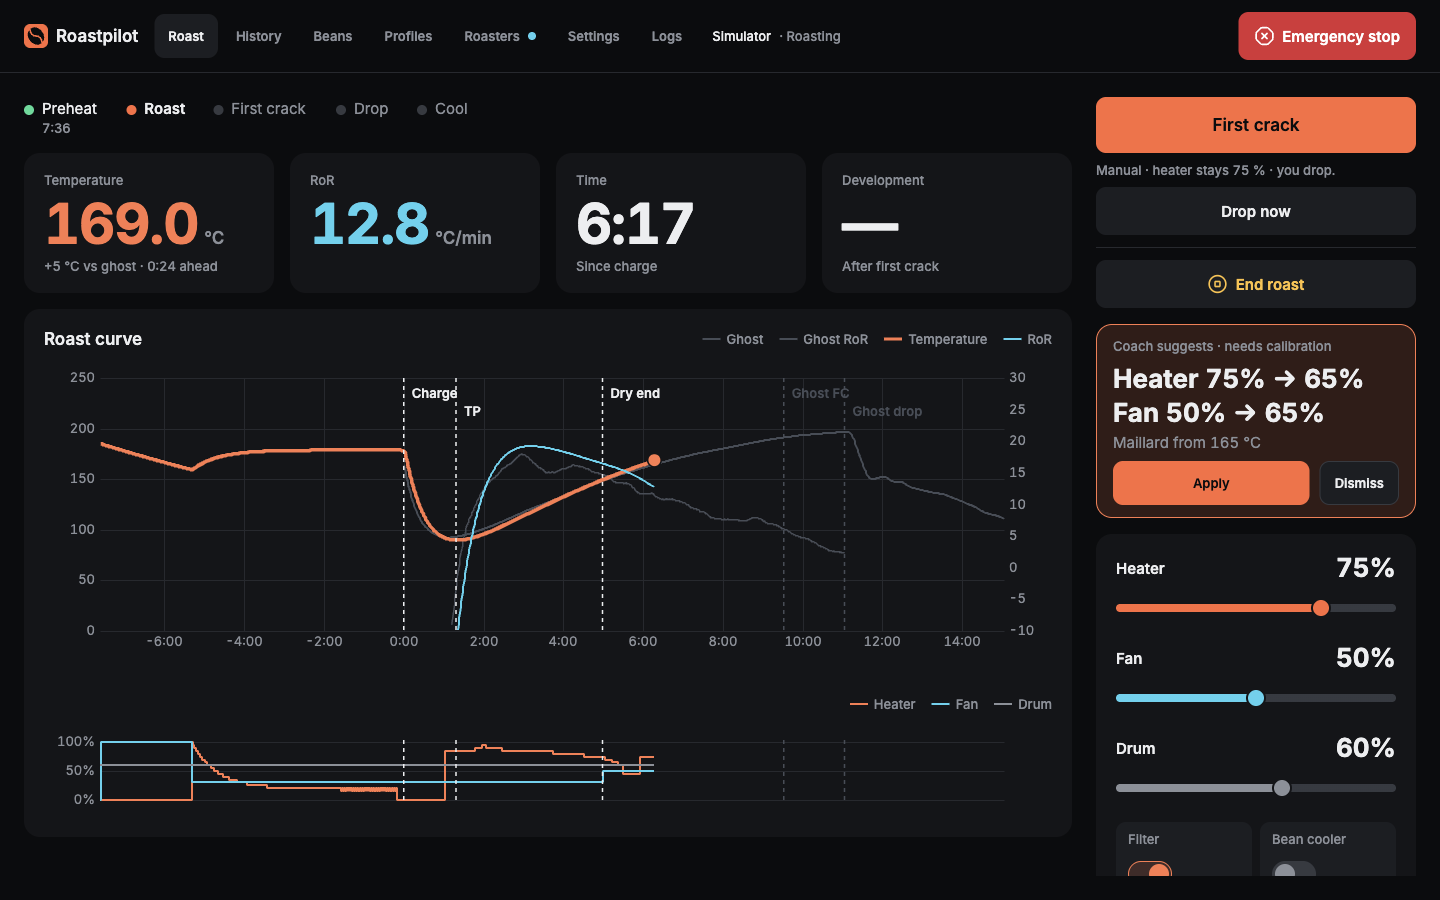
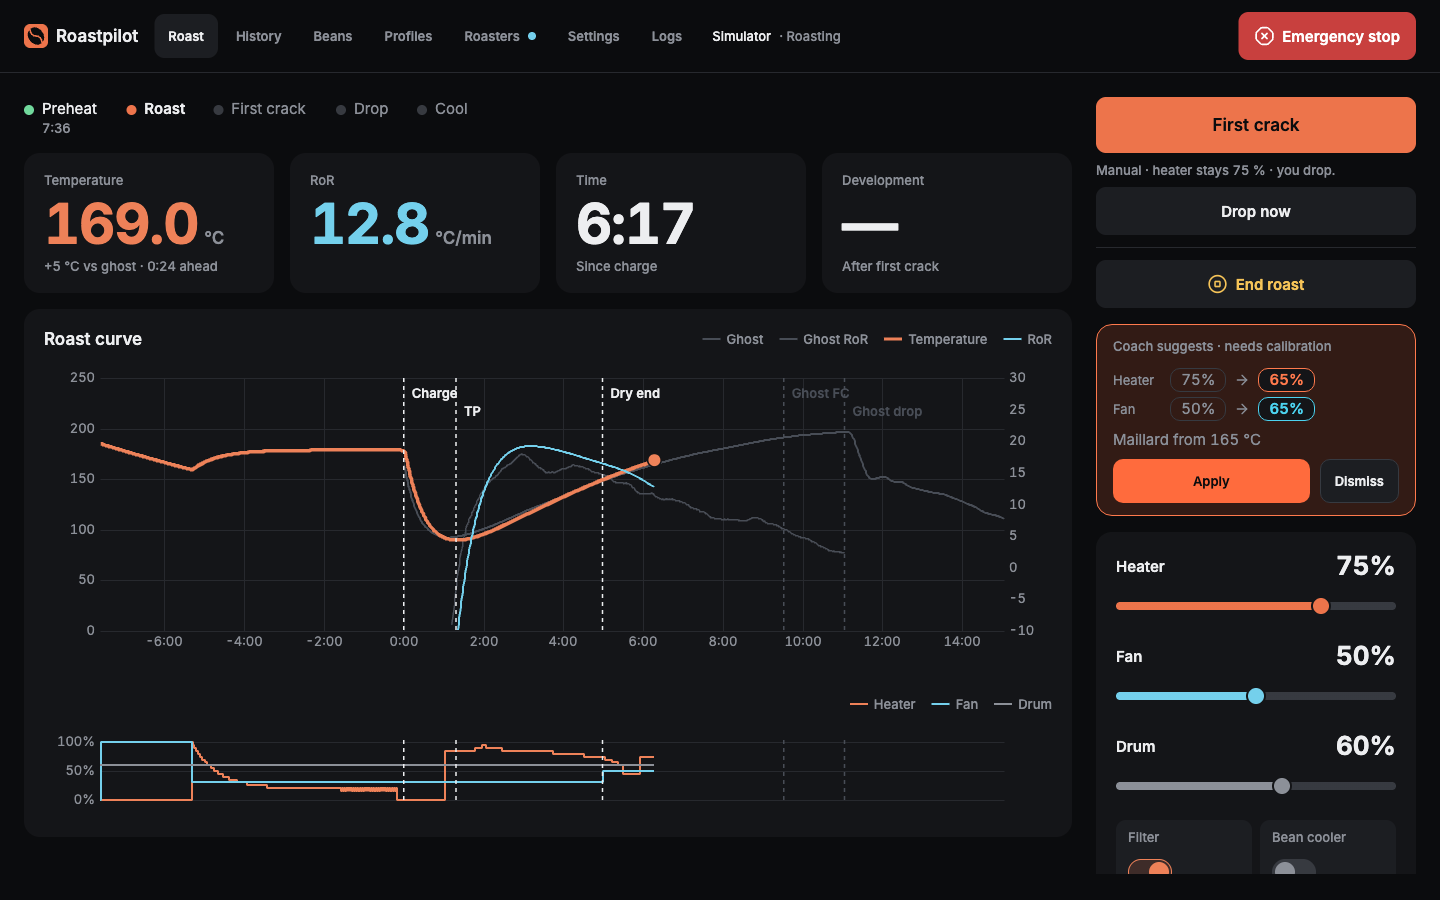
fix(ui): coach targets are body size, so the card is no taller than before
The README's Manual screenshot shows the new card.

Claude-Session: https://claude.ai/code/session_01BEFtvffdaP1RR6WWL5xTZu

diff --git a/packages/ui/src/components/CoachChanges.tsx b/packages/ui/src/components/CoachChanges.tsx
@@ -45,7 +45,7 @@ export function CoachChanges({ changes }: { changes: readonly CoachChange[] }) {
               <ArrowRight className="size-4" />
             </td>
             <td className="text-right">
-              <span className={cn(BOX, 'bg-surface text-readout-lg', TONE[change.tone])}>
+              <span className={cn(BOX, 'bg-surface text-body font-semibold', TONE[change.tone])}>
                 <span className="sr-only">to </span>
                 {pct(change.to)}
               </span>
